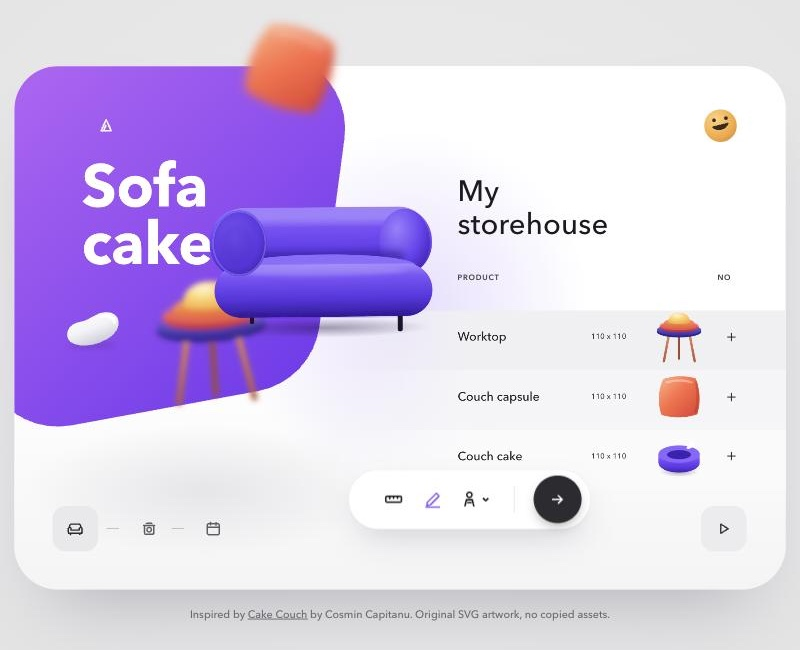
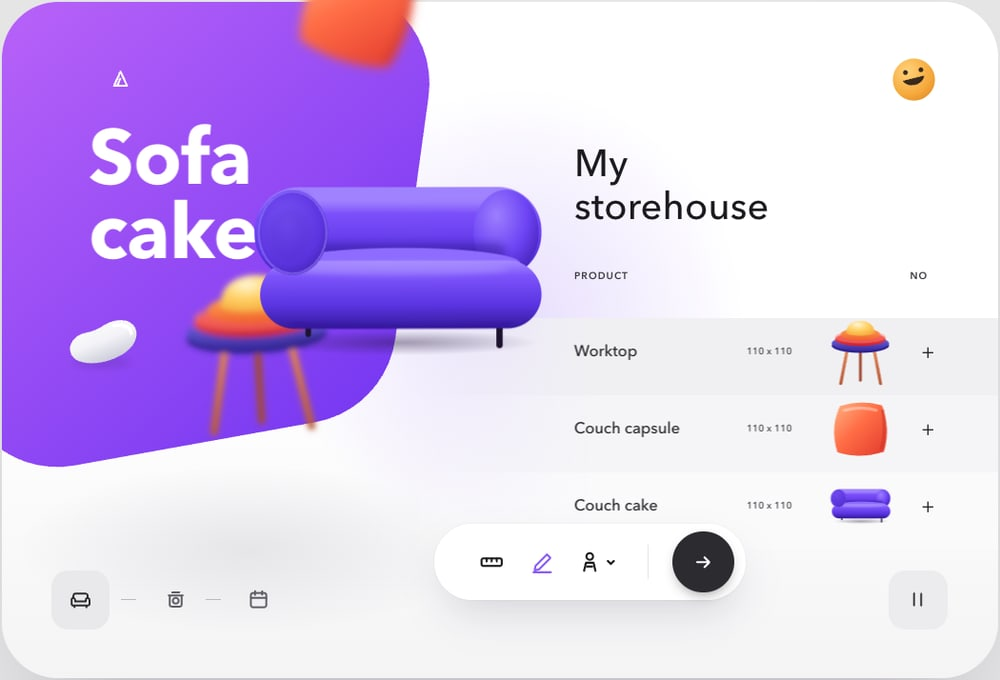
README: re-record autoplay GIF from current page, put it at the top; fresh picture

diff --git a/README.md b/README.md
@@ -1,14 +1,14 @@
 # Cake Couch
 
-![Cake Couch: animated product showcase](docs/screenshot.jpg)
+<p align="center">
+  <img src="docs/cake-couch.gif" width="100%" alt="Cake Couch animation: the three themes (Sofa cake, Blob sofa, Herbs pods) cycling; objects swing around a hidden circle while the rounded pentagon behind them rotates and changes colour">
+</p>
 
 **Live:** https://cake-couch-animation.vercel.app
 
 A tiny, dependency-free animated product showcase: one HTML file with inline CSS, JS and hand-drawn SVG. No framework, no fonts, no images, no build step (about 12 KB gzipped).
 
-<p align="center">
-  <img src="docs/cake-couch.gif" width="80%" alt="The three themes (Sofa cake, Blob sofa, Herbs pods) cycling: objects swing around a hidden circle while the rounded pentagon behind them rotates and changes colour">
-</p>
+![Cake Couch: Sofa cake theme](docs/screenshot.jpg)
 
 ## How it moves
 - Three themes (Sofa cake, Blob sofa, Herbs pods) cycle on a loop.
@@ -27,6 +27,6 @@ Then open http://localhost:4173.
 | File | What it holds |
 |---|---|
 | `index.html` | Everything: markup, styles, SVG artwork and the small script |
-| `docs/` | README picture and animation |
+| `docs/` | README animation (`cake-couch.gif`, recorded from the live page) and picture (`screenshot.jpg`) |
 
 Inspired by [Cake Couch](https://dribbble.com/shots/16460483-Cake-Couch) by Cosmin Capitanu. All artwork here is original SVG; no assets were copied.
